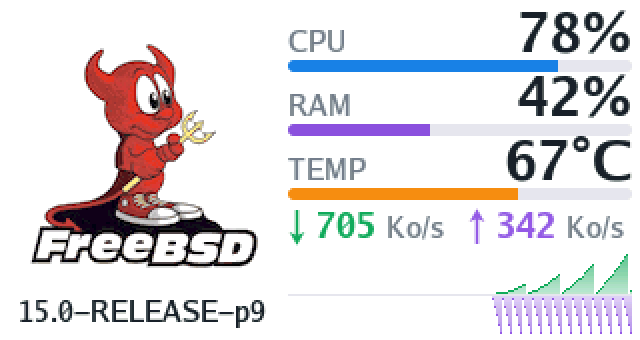
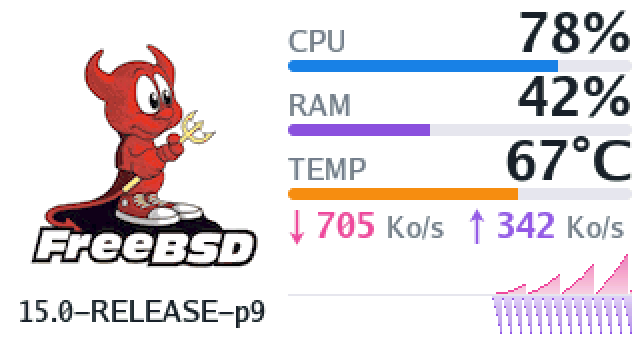
sysmonF401 : réception en rose
La réception (débit et graphe) passe du vert au rose, l'envoi reste violet.

Changed region(s): [[0.7812, 0.7647, 1.0, 0.8824], [0.4375, 0.6176, 0.5938, 0.7059]]

diff --git a/firmware/sysmonf401/Core/Src/sysmon.c b/firmware/sysmonf401/Core/Src/sysmon.c
@@ -35,7 +35,7 @@
 #define C_RAM       RGB565(140, 80, 220)
 #define C_TEMP      RGB565(240, 140, 20)
 #define C_RED       RGB565(220, 40, 40)
-#define C_DOWN      RGB565(20, 170, 90)
+#define C_DOWN      RGB565(236, 72, 153) /* rose */
 #define C_UP        RGB565(150, 90, 230)
 
 /* Colonne de gauche : animation puis version du système. */

diff --git a/README.md b/README.md
@@ -18,7 +18,7 @@ download / upload rates, sent once a second by the server over USB serial.
 - White background. Left: an animated GIF (FreeBSD's Beastie by default), with the
   system version underneath (`uname -r`, e.g. 15.0-RELEASE-p9).
 - Right: CPU, RAM and CPU temperature in large anti-aliased digits with a bar each
-  (red above 80 %, or from 75 °C); download (green) and upload (violet) rates on one
+  (red above 80 %, or from 75 °C); download (pink) and upload (violet) rates on one
   line, and their history over ~3 min as a mirrored graph across the full width:
   download above the axis, upload below, each with its own scale.
 
